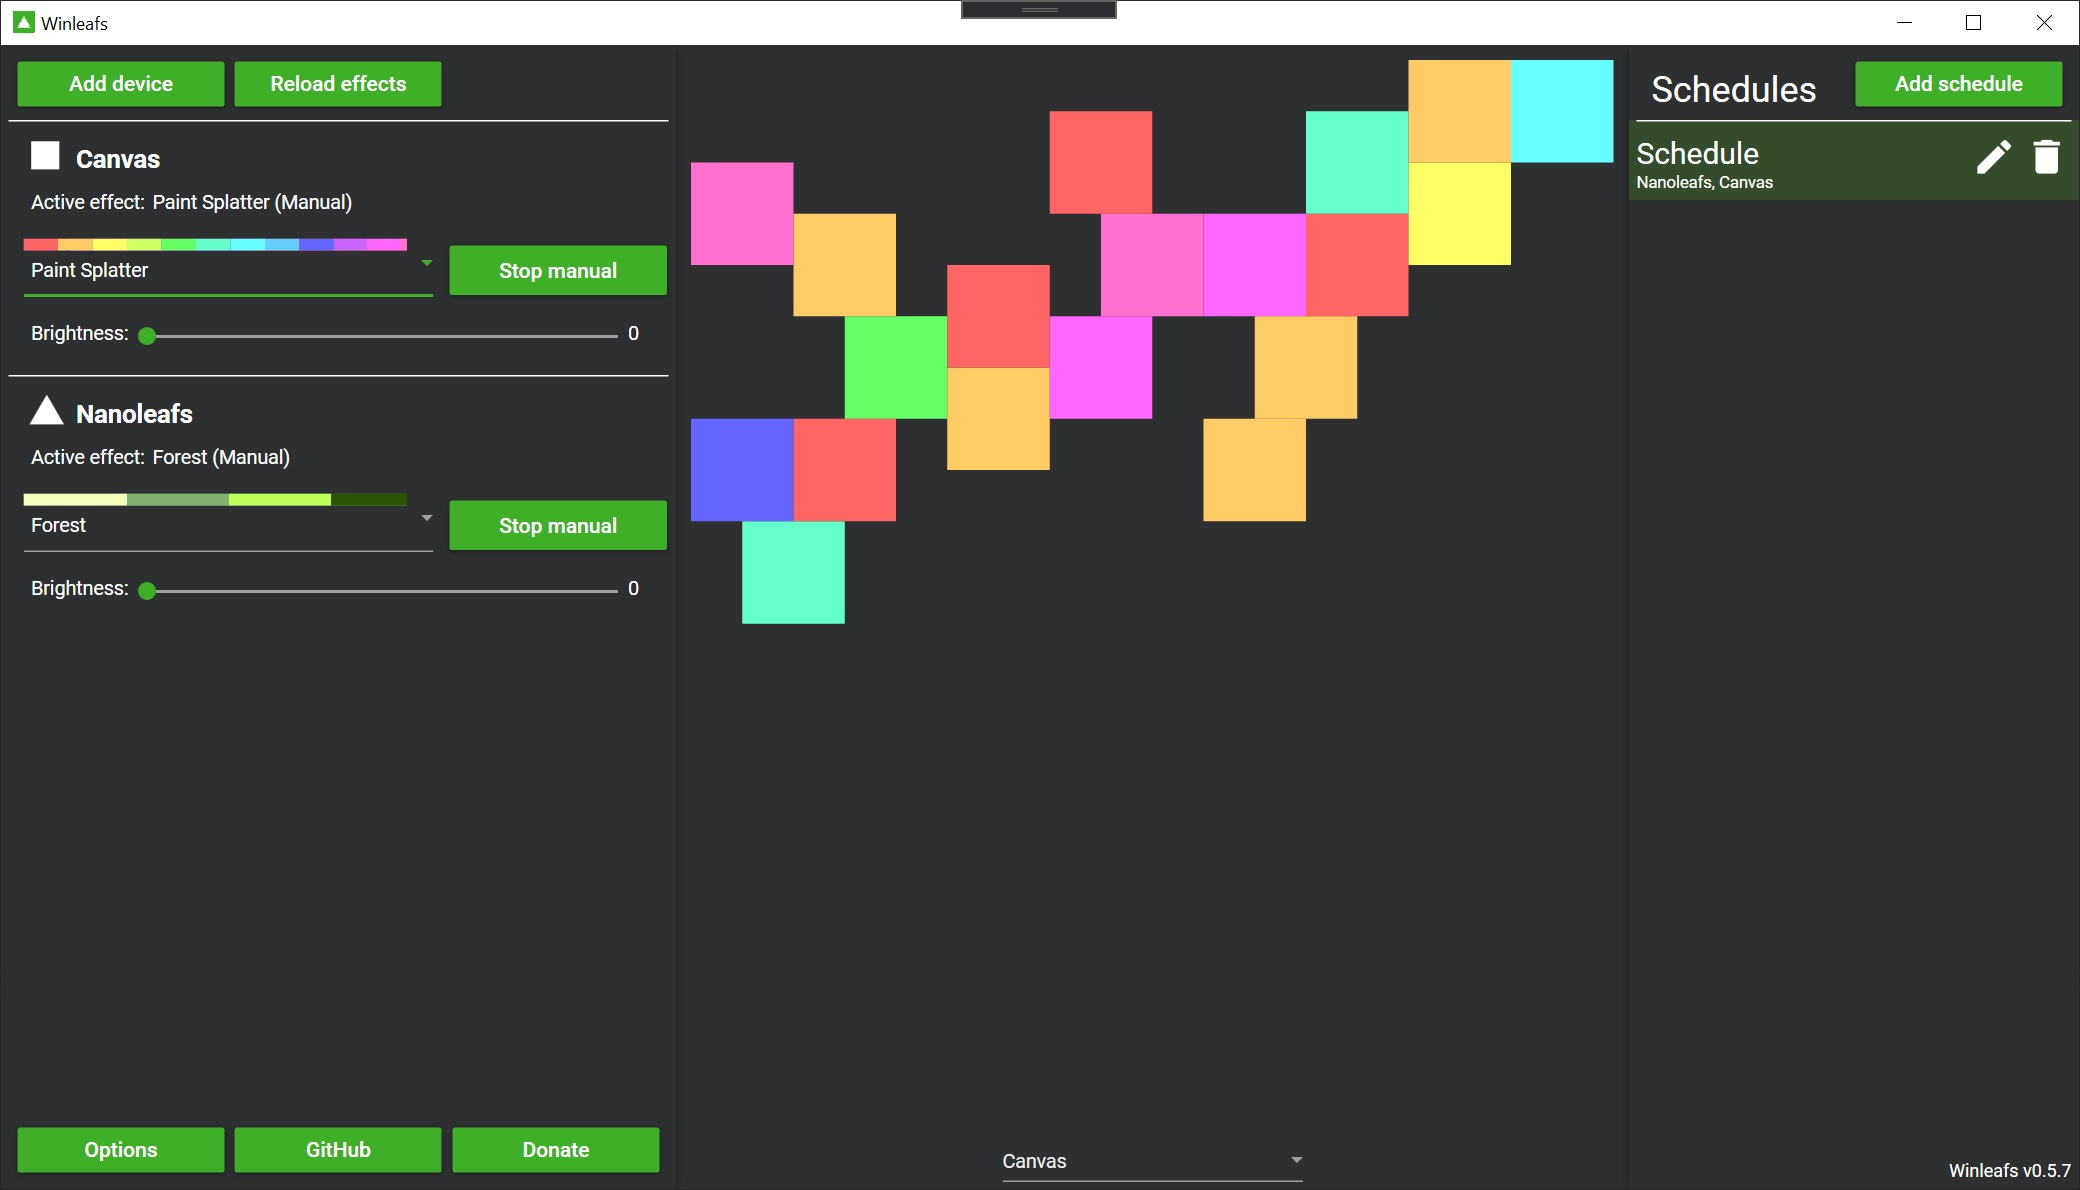
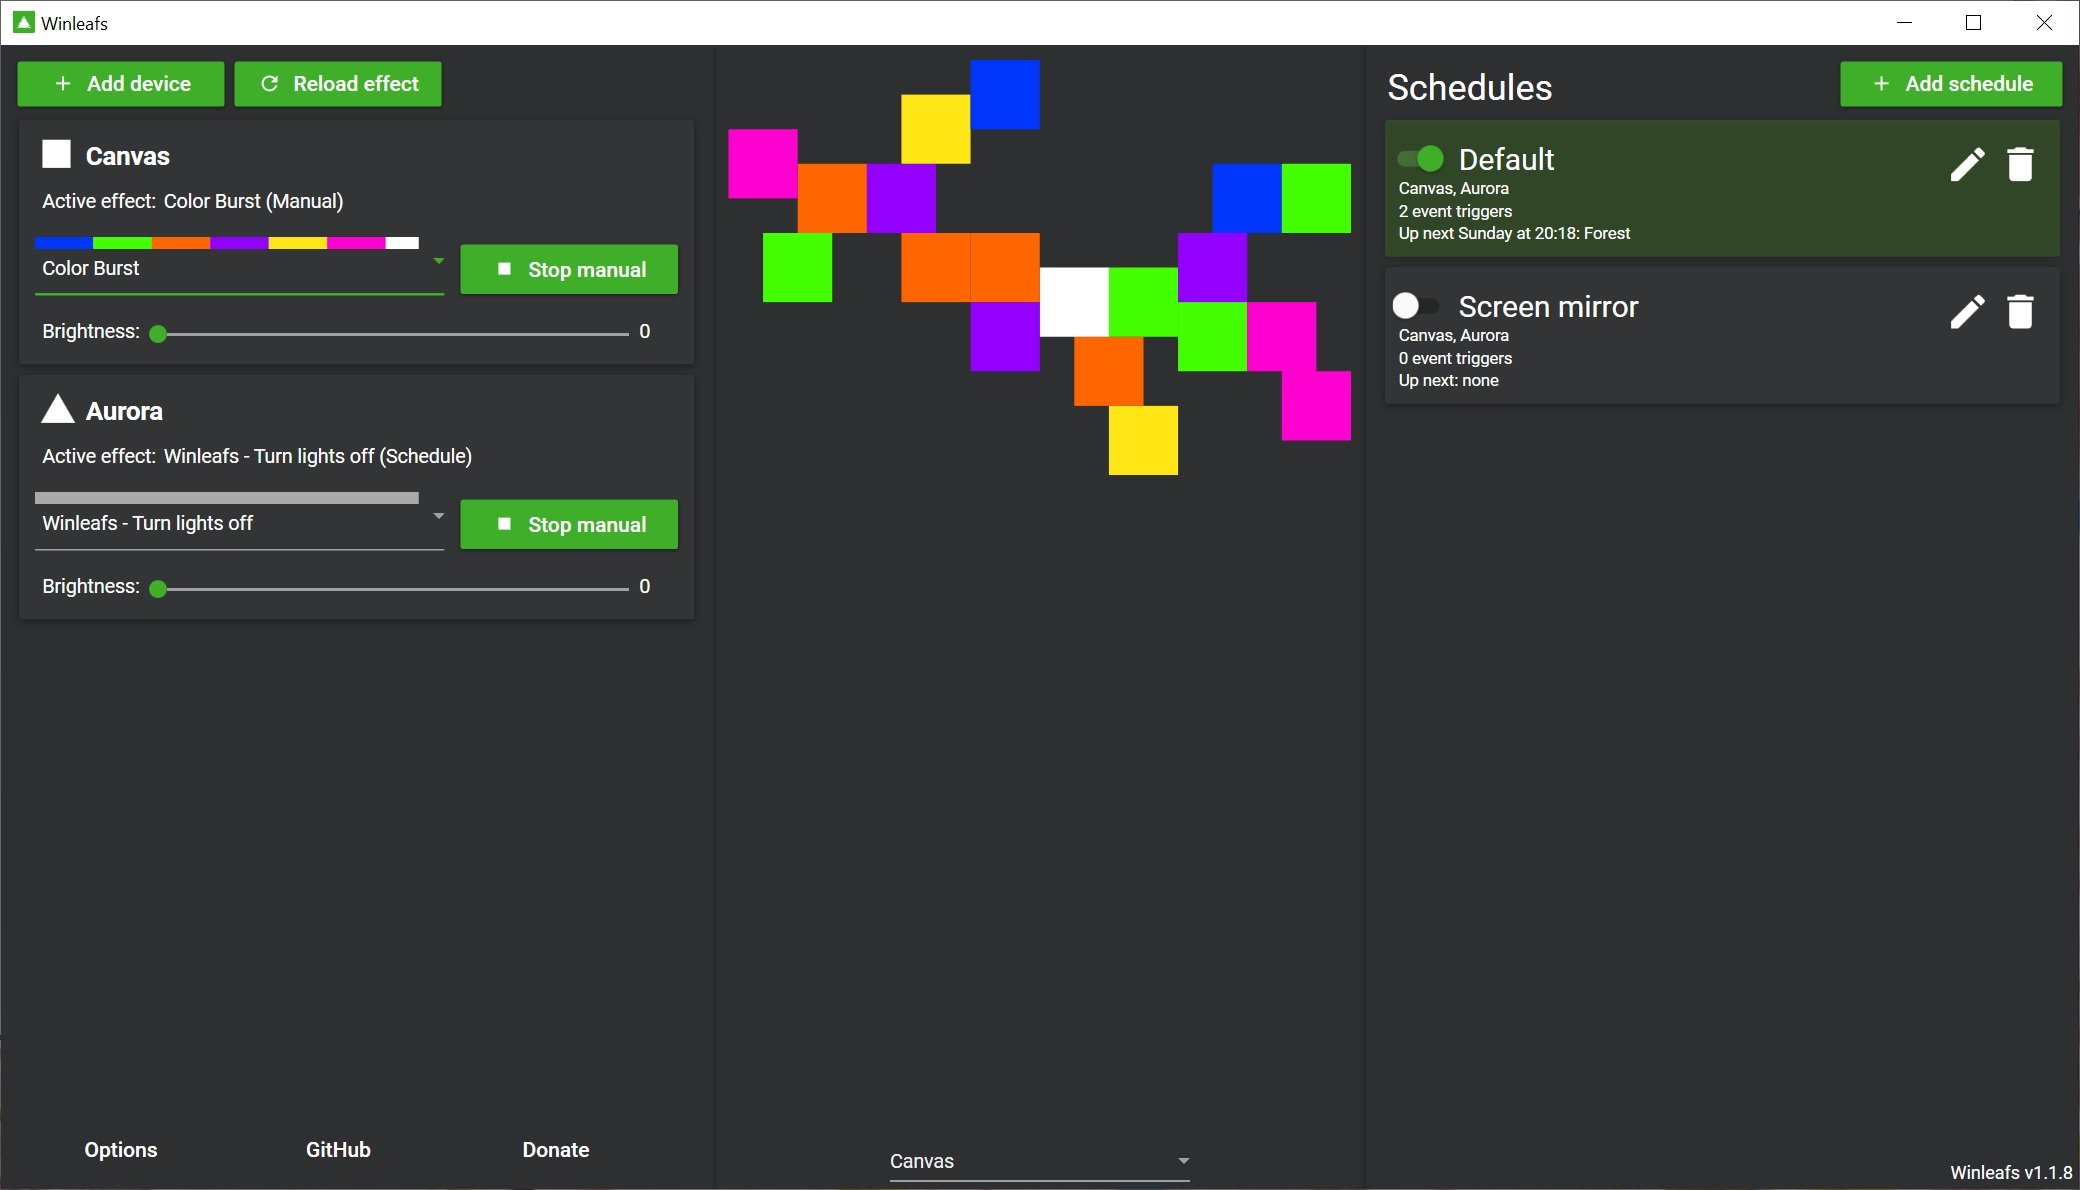
Update screenshots

diff --git a/README.md b/README.md
@@ -35,7 +35,7 @@ We would appreciate it if you'd contact us before picking up a task so we can av
 
 ## Showcase
 ![Screenshot](Media/Screenshot1.jpg)
-![Screenshot](Media/Screenshot2.png)
+![Screenshot](Media/Screenshot2.jpg)
 
 ### Screen Mirror
 ![Screenshot](Media/ScreenMirror.jpeg)
